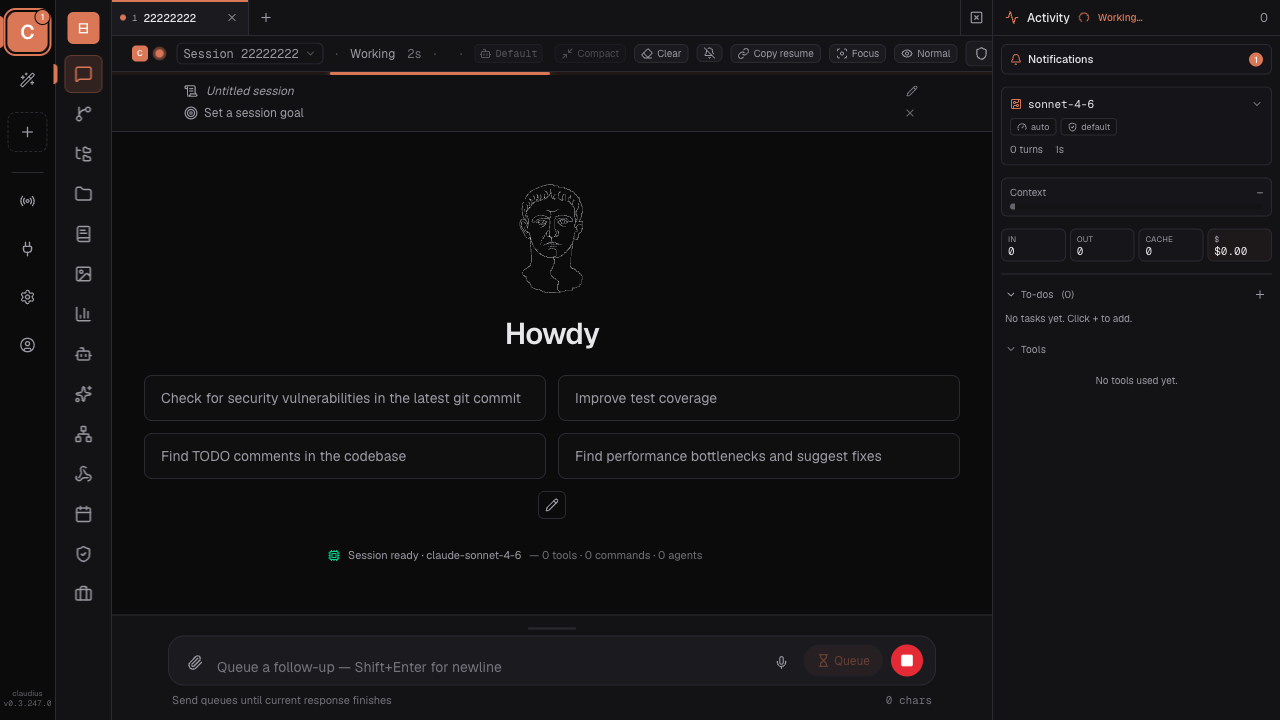
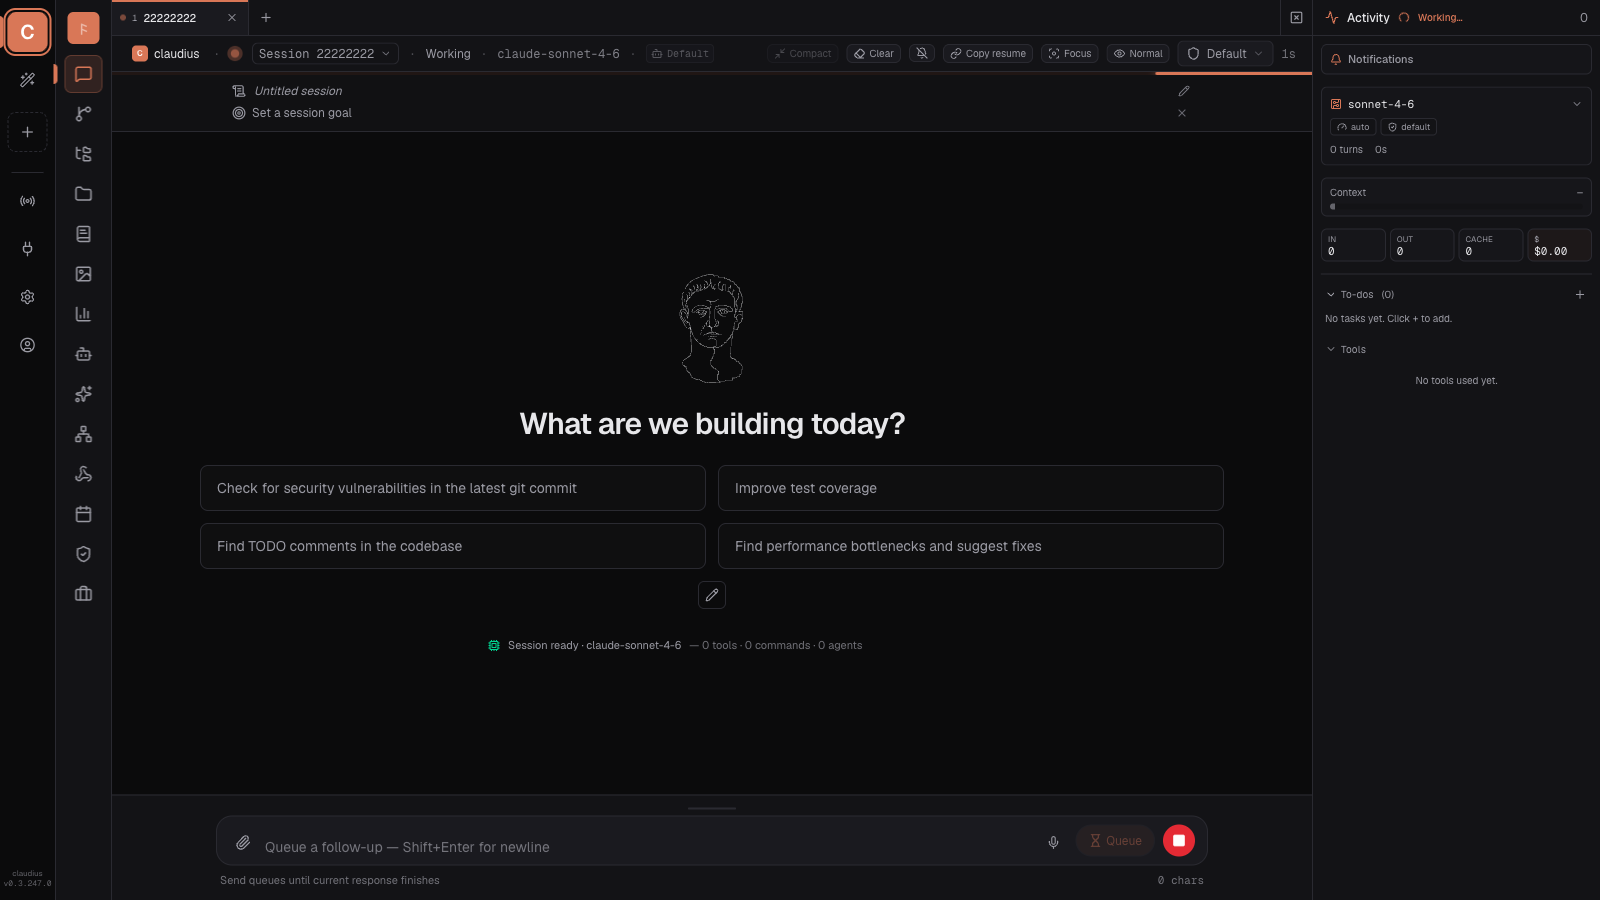
fix(cc-parity): keep turn-duration chips from crowding the status line
Wiring the CC 2.1.246 turn-duration chips into StatusLine's main content
flow exposed a real, pre-existing capacity problem: the header row can
already want more width than it has once a workspace chip, cost chip,
long session name, and notification bell are all present, and the
row's clip-path hides the overflow visually while the clipped elements
keep a live hit-box — colliding with the right-rail's Notifications
button and breaking tests/e2e/focus-mode.spec.ts (Focus toggle click
refused as intercepted).

Move the elapsed/completion chips to the very end of the ml-auto
cluster, after ModeSelector, so they're the first thing sacrificed
under crowding instead of the interactive Focus/Mode controls next to
them — verified by direct bounding-box measurement that Focus returns
to a position within the row's bounds. Widen the new spec's viewport so
its screenshot documents the common (uncrowded) case rather than the
worst-case row.

diff --git a/components/chat/StatusLine.tsx b/components/chat/StatusLine.tsx
@@ -319,24 +319,6 @@ export function StatusLine({
       >
         {statusLabel}
       </span>
-      {typeof turnElapsedSec === "number" && (
-        <span
-          data-testid="status-line-elapsed"
-          className="whitespace-nowrap font-mono opacity-70"
-          title="Elapsed time for the current turn"
-        >
-          {formatElapsed(turnElapsedSec)}
-        </span>
-      )}
-      {doneAt && (
-        <span
-          data-testid="status-line-done"
-          className="whitespace-nowrap opacity-70"
-          title="Wall-clock time the last turn finished"
-        >
-          done {doneAt}
-        </span>
-      )}
       {model && (
         <>
           <span className="opacity-50">·</span>
@@ -553,6 +535,33 @@ export function StatusLine({
         )}
         {!zen && (
           <ModeSelector mode={permissionMode} onChange={onModeChange} disabledModes={disabledModes} />
+        )}
+        {/* CC 2.1.246 parity — "added the turn's completion time to the
+            end-of-turn duration line". Deliberately the LAST items in this
+            cluster (not next to `status-line-text`): this row already runs
+            out of room with a long session name + cost chip + notification
+            bell all present (see the `clip-path` comment above), and a
+            decorative timing chip is the right thing to sacrifice first —
+            unlike Focus/Mode, losing it under real crowding costs nothing
+            functional. Placing them last keeps every interactive control's
+            layout position exactly as it was pre-2.1.246. */}
+        {!zen && typeof turnElapsedSec === "number" && (
+          <span
+            data-testid="status-line-elapsed"
+            className="hidden whitespace-nowrap font-mono opacity-70 @3xl/statusline:inline"
+            title="Elapsed time for the current turn"
+          >
+            {formatElapsed(turnElapsedSec)}
+          </span>
+        )}
+        {!zen && doneAt && (
+          <span
+            data-testid="status-line-done"
+            className="hidden whitespace-nowrap opacity-70 @3xl/statusline:inline"
+            title="Wall-clock time the last turn finished"
+          >
+            done {doneAt}
+          </span>
         )}
       </div>
     </div>

diff --git a/tests/e2e/cc-parity-2.1.246-turn-duration.spec.ts b/tests/e2e/cc-parity-2.1.246-turn-duration.spec.ts
@@ -90,6 +90,15 @@ const PRELUDE: SdkEvent[] = [
 ];
 
 test.describe("Turn elapsed + completion time (CC 2.1.246)", () => {
+  // The elapsed/completion chips are deliberately the LAST items in the
+  // StatusLine's right-hand cluster (see StatusLine.tsx) — this row already
+  // runs out of room under real crowding (long session name + cost chip +
+  // notification bell all present at once), and a decorative timing chip is
+  // the right thing to lose first, not the Focus/Mode controls next to it.
+  // A wider viewport keeps this spec's screenshot representative of the
+  // common case (room to spare) rather than the worst-case crowded row.
+  test.use({ viewport: { width: 1600, height: 900 } });
+
   test("shows a live elapsed ticker while the turn is running", async ({ page }) => {
     await mockChatBackend(page, [
       ...PRELUDE,
